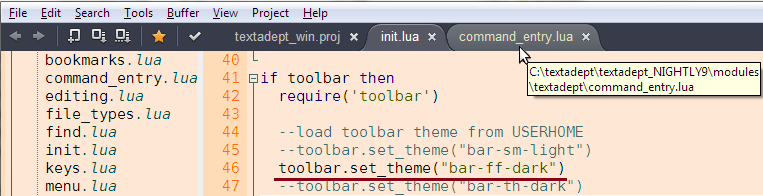
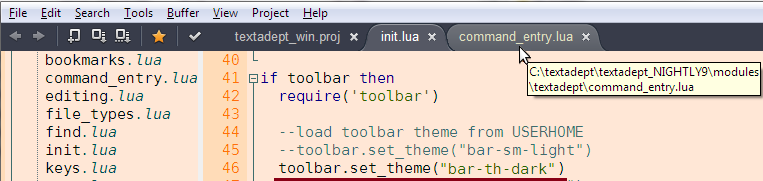
update screen captures and readme (ff theme removed)

diff --git a/README.md b/README.md
@@ -259,7 +259,7 @@ __Some examples using tabs and themes:__
 
 ![theme bar-sm-light](https://github.com/gabdub/ta-tweaks/blob/master/screencapt/tab-win1.png "theme bar-sm-light")
 
-**theme: bar-ff-dark**
+**theme: bar-th-dark**
 
 ![theme bar-ff-dark](https://github.com/gabdub/ta-tweaks/blob/master/screencapt/tab-win2.png "theme bar-ff-dark")
 
